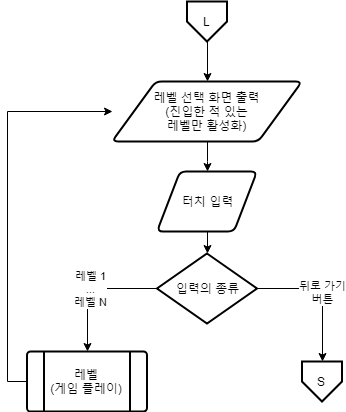
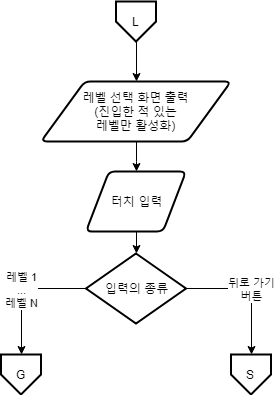
#29 게임플레이 화면 순서도 및 md 신규 작성
게임플레이 화면 순서도 추가
md 파일 추가
관련 파일 링크 및 수정

diff --git a/스왐피_역기획서_시스템.md b/스왐피_역기획서_시스템.md
@@ -2,7 +2,7 @@
 * [메인 화면](./스왐피_역기획서_시스템/메인_화면.md)
   * [스테이지 선택](./스왐피_역기획서_시스템/스테이지_선택.md)
     * [레벨 선택](./스왐피_역기획서_시스템/레벨_선택.md)
-      * 플레이 화면
+      * [게임플레이 화면](./스왐피_역기획서_시스템/게임플레이_화면.md)
       * [오브젝트](./스왐피_역기획서_시스템/오브젝트.md)
     * [스테이지 해금](./스왐피_역기획서_시스템/스테이지_해금.md)
     * [콜렉션](./스왐피_역기획서_시스템/콜렉션.md)

diff --git a/스왐피_역기획서_시스템/레벨_선택.md b/스왐피_역기획서_시스템/레벨_선택.md
@@ -1,6 +1,5 @@
 ## 레벨 선택
 ![레벨 선택 순서도](./img/레벨_선택.png)
-* Predefined Processes
-  * [레벨](./플레이_화면.md)
 * Off-page Connector
+  * [G: 게임플레이 화면](./게임플레이_화면.md)
   * [S: 스테이지 선택](./스테이지_선택.md)

diff --git a/스왐피_역기획서_시스템/게임플레이_화면.md b/스왐피_역기획서_시스템/게임플레이_화면.md
@@ -1,0 +1,5 @@
+## 게임플레이 화면
+![게임플레이 화면 순서도](./img/게임플레이_화면.png)
+* Off-page Connectors
+  * [M: 메인 화면](./메인_화면.md)
+  * [L: 레벨 선택](./레벨_선택.md)
